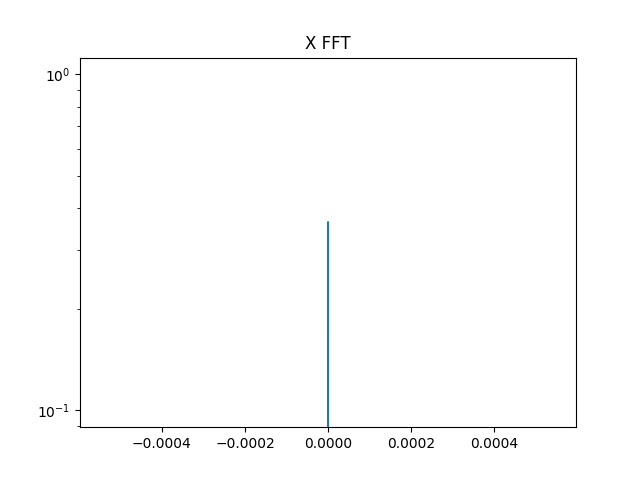
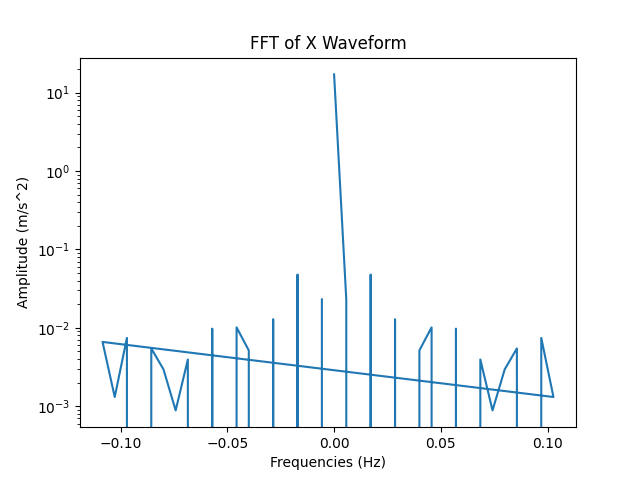
Added and Changed units, Added Waveform plots.

diff --git a/PhidgetCode/AccelFFT.py b/PhidgetCode/AccelFFT.py
@@ -27,35 +27,63 @@ def getPhidgetData():
     time = [time for time in time if time]
     time = np.asfarray(time,float)
 
+    #Plotting Waveforms
+    plt.figure()
+    plt.title("X vs time Waveform")
+    plt.xlabel("Time (s)")
+    plt.ylabel("Amplitude (m/s^2)")
+    plt.plot(time, x)
+    plt.savefig("X Waveform")
+
+    plt.figure()
+    plt.title("Y vs time Waveform")
+    plt.xlabel("Time (s)")
+    plt.ylabel("Amplitude (m/s^2)")
+    plt.plot(time, y)
+    plt.savefig("Y Waveform")
+
+    plt.figure()
+    plt.title("Z vs time Waveform")
+    plt.xlabel("Time (s)")
+    plt.ylabel("Amplitude (m/s^2)")
+    plt.plot(time, z)
+    plt.savefig("Z Waveform")
+
 def FastFourierTrans():
     global x, y, z, time
     xFFT = fft(x)
     freq_xFFT = fftfreq(len(xFFT)) * (1/(stat.mean(time)))
     plt.figure()
-    plt.title("X FFT")
+    plt.title("FFT of X Waveform")
     plt.yscale('log')
+    plt.xlabel("Frequencies (Hz)")
+    plt.ylabel("Amplitude (m/s^2)")
     plt.plot(freq_xFFT, xFFT)
     plt.savefig("X FFT")
-    plt.show()
+    #plt.show()
 
 
     yFFT = fft(y)
     freq_yFFT = fftfreq(len(yFFT)) * (1/(stat.mean(time)))
     plt.figure()
-    plt.title("Y FFT")
+    plt.title("FFT of Y Waveform")
     plt.yscale('log')
+    plt.xlabel("Frequencies (Hz)")
+    plt.ylabel("Amplitude (m/s^2)")
     plt.plot(freq_yFFT, yFFT)
     plt.savefig("Y FFT")
-    plt.show()
+    #plt.show()
 
     zFFT = fft(z)
     freq_zFFT = fftfreq(len(zFFT)) * (1/(stat.mean(time)))
     plt.figure()
-    plt.title("Z FFT")
+    plt.title("FFT of Z Waveform")
     plt.yscale('log')
+    plt.xlabel("Frequencies (Hz)")
+    plt.ylabel("Amplitude (m/s^2)")
     plt.plot(freq_zFFT, zFFT)
     plt.savefig("Z FFT")
-    plt.show()
+    #plt.show()
 
 
 

diff --git a/PhidgetCode/phidget_acceleration_acq.c b/PhidgetCode/phidget_acceleration_acq.c
@@ -38,9 +38,17 @@ static void CCONV writeToFile(PhidgetAccelerometerHandle ch, void * ctx, const d
 }
 
 static void CCONV onAccelerationChange(PhidgetAccelerometerHandle ch, void * ctx, const double acceleration[3], double timestamp) {
+  //Convert GForce into m/s^2
+  float acceleration_conv [3];
+  for (int i = 0; i < 3; i++){
+    double curr_acc = acceleration[i];
+    acceleration_conv[i] = curr_acc/9.8;
+  }
+  //Convet time from ms to s
+  timestamp = timestamp/1000;
   writeToFile(ch, ctx, acceleration, timestamp);
-  printf("Acceleration: \t%lf  |  %lf  |  %lf\n", acceleration[0], acceleration[1], acceleration[2]);
-	printf("Timestamp: %lf\n", timestamp);
+  printf("Acceleration: \t%lf  |  %lf  |  %lf (m/s^2)\n", acceleration[0], acceleration[1], acceleration[2]);
+	printf("Timestamp: %lf (s)\n", timestamp);
 	printf("----------\n");
 
 }
